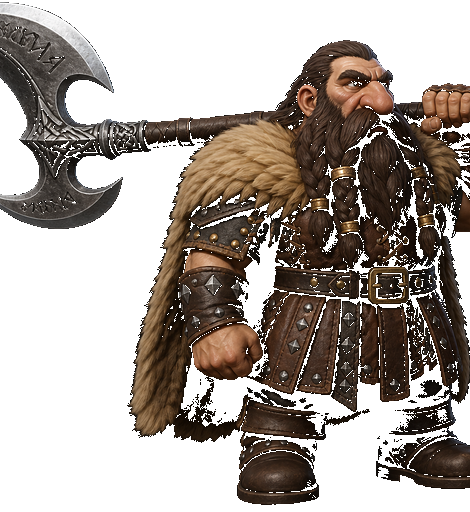
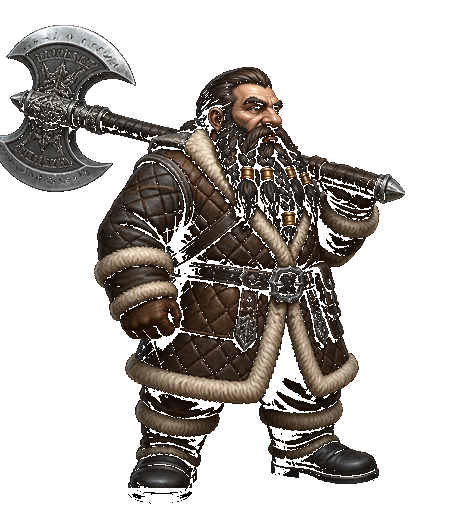
Bind Shadow Cleaver quilt34 pack + axe walk — ASSET_VER 95
Replace axe idle/atk; add axe_w1/w2 sheets and wire livingMacar walk
cycle for cleaver. WalkFacePair covers axe pair. Soft: buckle/atk crown.

diff --git a/index.html b/index.html
@@ -369,7 +369,7 @@ const FONT_QUOTE='"Cormorant Garamond",Palatino,Georgia,serif';
 
 /* ---------------------------- painted sprites (Baldur's Gate isometric) ---------------------------- */
 const SPR={};
-const ASSET_VER='94';
+const ASSET_VER='95';
 let SPLASH_STATE='loading';
 function assetUrl(src){
   const u=src+(src.indexOf('?')>=0?'&':'?')+'v='+ASSET_VER;
@@ -658,12 +658,14 @@ Object.keys(SPRITE_FILES).forEach(k=>{
    Drop compass / helmeted combat / sleep / title / w3 leftovers. Kin stay. */
 Object.keys(SPRITE_FILES).forEach(k=>{
   if(k==='macar' || k==='macar_w1' || k==='macar_w2' || k==='macar_atk'
-     || k==='macar_axe' || k==='macar_axe_atk') return;
+     || k==='macar_axe' || k==='macar_axe_w1' || k==='macar_axe_w2' || k==='macar_axe_atk') return;
   if(/^macar(_|$)/.test(k)) delete SPRITE_FILES[k];
 });
 /* Shadow Cleaver carry + atk — registered after the strip so they survive
-   and do not invent missing axe_w1/w2 fetches. */
+   axe_w1/w2 now ship with quilt34 cleaver pack. */
 SPRITE_FILES.macar_axe='assets/creatures/dwarf_macar_axe.png';
+SPRITE_FILES.macar_axe_w1='assets/creatures/dwarf_macar_axe_w1.png';
+SPRITE_FILES.macar_axe_w2='assets/creatures/dwarf_macar_axe_w2.png';
 SPRITE_FILES.macar_axe_atk='assets/creatures/dwarf_macar_axe_atk.png';
 const ICON_SPR={
   sword:'icon_sword', flask:'icon_flask', shield:'icon_shield', pack:'icon_pack',
@@ -695,7 +697,7 @@ function worldArtReady(n){
 function loadSprites(done){
   const first=['title_splash','chapters_plate','intro_ch1','intro_ch2','intro_ch3','intro_ch4','intro_ch5','intro_cavein',
     'floor_mine','wall_worked','wall_face','wall_face_shade','wall_cave','wall_cave_face','wall_cave_face_shade',
-    'macar','macar_w1','macar_w2','macar_atk','macar_axe','macar_axe_atk','pordoom_dead','fendur_dead','orbo_dead','talpor_dead',
+    'macar','macar_w1','macar_w2','macar_atk','macar_axe','macar_axe_w1','macar_axe_w2','macar_axe_atk','pordoom_dead','fendur_dead','orbo_dead','talpor_dead',
     'rubble','rubble2','boulder','boulder2','lantern',
     'icon_pack','icon_sword','icon_flask','icon_shield','icon_cross',
     'icon_plant','icon_shovel','icon_campfire','icon_bomb','icon_crossbow','icon_secret','icon_climb','icon_attack','icon_defend','icon_craft',
@@ -760,7 +762,7 @@ function loadSprites(done){
 }
 function ensureAttackFrames(){
   // Measure the hero's frames up front so the pixel read never lands mid-fight.
-  ['macar','macar_w1','macar_w2','macar_atk','macar_axe','macar_axe_atk',
+  ['macar','macar_w1','macar_w2','macar_atk','macar_axe','macar_axe_w1','macar_axe_w2','macar_axe_atk',
     'pordoom','pordoom_w1','pordoom_w2','pordoom_w3','pordoom_atk','pordoom_atk_recover','pordoom_ghost','pordoom_ghost_w3','pordoom_ghost_atk','pordoom_ghost_atk_recover',
     'fendur','fendur_w1','fendur_w2','fendur_w3','fendur_atk','fendur_atk_recover','fendur_ghost','fendur_ghost_w3','fendur_ghost_atk','fendur_ghost_atk_recover',
     'orbo','orbo_w1','orbo_w2','orbo_w3','orbo_atk','orbo_atk_recover','orbo_ghost','orbo_ghost_w3','orbo_ghost_atk','orbo_ghost_atk_recover',
@@ -1368,7 +1370,7 @@ const MACAR_PLAN={
 };
 /* Title-law Macar: maul idle + front w1/w2 + maul atk + Shadow Cleaver carry/atk. */
 const LIVING_MACAR_KEYS={
-  macar:1, macar_w1:1, macar_w2:1, macar_atk:1, macar_axe:1, macar_axe_atk:1
+  macar:1, macar_w1:1, macar_w2:1, macar_atk:1, macar_axe:1, macar_axe_w1:1, macar_axe_w2:1, macar_axe_atk:1
 };
 function isLivingMacarKey(k){ return !!(k && LIVING_MACAR_KEYS[k]); }
 function livingMacarIdleKey(){
@@ -1610,7 +1612,7 @@ function livingMacarAnimKey(e){
     const atk=(idle==='macar_axe')?'macar_axe_atk':'macar_atk';
     return pickReadyPartyKey(atk, idle) || idle;
   }
-  /* Axe has no w1/w2 — walkCycleKey plants axe idle (do not use maul walks). */
+  /* Cleaver walk uses axe_w1/w2 when ready; else plant axe idle (never maul walks). */
   const hit=(e.moving && !e.defending)?walkCycleKey(e, idle):null;
   return pickReadyPartyKey(isLivingMacarKey(hit)?hit:null, idle) || idle;
 }

diff --git a/src/combat/MacarDungeonBlit.test.js b/src/combat/MacarDungeonBlit.test.js
@@ -53,7 +53,7 @@ assert(!!keysDecl && /macar:1/.test(keysDecl[0]) && /macar_w1:1/.test(keysDecl[0
   'whitelist is maul set + Shadow Cleaver carry/atk');
 
 ['dwarf_macar.png','dwarf_macar_w1.png','dwarf_macar_w2.png','dwarf_macar_atk.png',
- 'dwarf_macar_axe.png','dwarf_macar_axe_atk.png'].forEach(f=>{
+ 'dwarf_macar_axe.png','dwarf_macar_axe_w1.png','dwarf_macar_axe_w2.png','dwarf_macar_axe_atk.png'].forEach(f=>{
   assert(fs.existsSync(path.join(root,'assets/creatures',f)), f+' live sheet remains');
 });
 ['dwarf_macar_atk_recover.png','dwarf_macar_e_atk.png',
@@ -67,10 +67,10 @@ const start=html.indexOf('const SPRITE_FILES={');
 const end=html.indexOf('const ICON_SPR={');
 const registry=new Function(html.slice(start, end)+'\nreturn SPRITE_FILES;')();
 assert(registry.macar && registry.macar_w1 && registry.macar_w2 && registry.macar_atk
-  && registry.macar_axe && registry.macar_axe_atk, 'live Macar + axe keys stay registered');
+  && registry.macar_axe && registry.macar_axe_w1 && registry.macar_axe_w2 && registry.macar_axe_atk, 'live Macar + axe keys stay registered');
 Object.keys(registry).forEach(k=>{
   if(k==='macar' || k==='macar_w1' || k==='macar_w2' || k==='macar_atk'
-     || k==='macar_axe' || k==='macar_axe_atk') return;
+     || k==='macar_axe' || k==='macar_axe_w1' || k==='macar_axe_w2' || k==='macar_axe_atk') return;
   assert(!/^macar(_|$)/.test(k), 'registry has no leftover Macar key '+k);
 });
 
@@ -130,7 +130,10 @@ SPR.macar_axe_atk={width:470, height:512};
 ctx._axe=true;
 assert(ctx.livingMacarIdleKey()==='macar_axe', 'cleaver idle is macar_axe');
 assert(ctx.livingMacarAnimKey(macar())==='macar_axe', 'cleaver idle blits macar_axe');
-assert(ctx.livingMacarAnimKey(macar({moving:1, gait:0.12}))==='macar_axe', 'cleaver walk plants axe idle');
+SPR.macar_axe_w1={width:470, height:512}; SPR.macar_axe_w2={width:470, height:512};
+assert(ctx.livingMacarAnimKey(macar({moving:1, gait:0.12}))==='macar_axe_w1', 'cleaver walk binds axe_w1');
+delete SPR.macar_axe_w1; delete SPR.macar_axe_w2;
+assert(ctx.livingMacarAnimKey(macar({moving:1, gait:0.12}))==='macar_axe', 'cleaver walk plants axe idle without walks');
 assert(ctx.livingMacarAnimKey(macar({atk:0.7, atkMax:1}))==='macar_axe_atk', 'cleaver melee uses axe atk');
 delete SPR.macar_axe; delete SPR.macar_axe_atk;
 ctx._axe=false;

diff --git a/src/combat/LivingMacarQA.test.js b/src/combat/LivingMacarQA.test.js
@@ -80,13 +80,15 @@ function pngAlphaHist(filePath){
   return {ok:true, w, h, mid, a0, a255, unique:midVals.size+(a0?1:0)+(a255?1:0)};
 }
 
-const BLIT_KEYS=['macar','macar_w1','macar_w2','macar_atk','macar_axe','macar_axe_atk'];
+const BLIT_KEYS=['macar','macar_w1','macar_w2','macar_atk','macar_axe','macar_axe_w1','macar_axe_w2','macar_axe_atk'];
 const KEY_FILE={
   macar:'dwarf_macar.png',
   macar_w1:'dwarf_macar_w1.png',
   macar_w2:'dwarf_macar_w2.png',
   macar_atk:'dwarf_macar_atk.png',
   macar_axe:'dwarf_macar_axe.png',
+  macar_axe_w1:'dwarf_macar_axe_w1.png',
+  macar_axe_w2:'dwarf_macar_axe_w2.png',
   macar_axe_atk:'dwarf_macar_axe_atk.png'
 };
 
@@ -198,7 +200,10 @@ SPR.macar_axe_atk={width:8};
 ctx._axe=true;
 assert(ctx.livingMacarIdleKey()==='macar_axe', 'cleaver swaps idle to macar_axe when sheet ready');
 assert(ctx.livingMacarAnimKey(macar())==='macar_axe', 'idle is macar_axe when the cleaver is on');
-assert(ctx.livingMacarAnimKey(macar({moving:1, gait:0.12}))==='macar_axe', 'cleaver walk plants axe idle (no axe_w1/w2)');
+SPR.macar_axe_w1={width:8}; SPR.macar_axe_w2={width:8};
+assert(ctx.livingMacarAnimKey(macar({moving:1, gait:0.12}))==='macar_axe_w1', 'cleaver walk binds axe_w1 when ready');
+delete SPR.macar_axe_w1; delete SPR.macar_axe_w2;
+assert(ctx.livingMacarAnimKey(macar({moving:1, gait:0.12}))==='macar_axe', 'cleaver walk plants axe idle without axe_w1/w2');
 assert(ctx.livingMacarAnimKey(macar({atk:0.7, atkMax:1}))==='macar_axe_atk', 'cleaver strike uses macar_axe_atk');
 assert(ctx.entAnimKey(macar())==='macar_axe', 'entAnimKey idle is macar_axe with the cleaver');
 assert(ctx.entAnimKey(macar({atk:0.7, atkMax:1}))==='macar_axe_atk', 'entAnimKey strike is macar_axe_atk');

diff --git a/src/systems/Interaction.test.js b/src/systems/Interaction.test.js
@@ -37,7 +37,7 @@ assert(SR.SHIPPED.indexOf('Interaction')>=0 && SR.SHIPPED.indexOf('Discovery')>=
 assert(/src="src\/systems\/Interaction\.js"/.test(html),
   'Interaction is a classic sync tag');
 assert(!/type\s*=\s*["']module["']/.test(html), 'index.html still has no type=module');
-assert(/ASSET_VER='94'/.test(html), 'ASSET_VER is unchanged');
+assert(/ASSET_VER='95'/.test(html), 'ASSET_VER is unchanged');
 assert(/function tryFindSecret\(p, mode\)\{/.test(html) &&
   /key==='search'/.test(html) && /key==='secret'/.test(html),
   'dual SEARCH (F herbs / T doors) is unchanged');
@@ -388,7 +388,7 @@ assert(/if\(typeof Interaction!=='undefined' && Interaction\.isProtectedCell/.te
 assert(/breakRock\(L,i,j\)/.test(html) && /function breakRock\(L,i,j\)\{/.test(html),
   'host breakRock remains the destruction path');
 assert(/function openSecret\(sec\)\{/.test(html), 'host openSecret remains the secret path');
-assert(!/ASSET_VER='95'/.test(html), 'ASSET_VER was not bumped');
+assert(!/ASSET_VER='96'/.test(html), 'ASSET_VER was not bumped');
 
 if(failed){ console.error('\n'+failed+' failed'); process.exit(1); }
 console.log('\ninteraction checks passed');

diff --git a/src/combat/WalkFacePair.test.js b/src/combat/WalkFacePair.test.js
@@ -38,7 +38,7 @@ assert(!/macar_e_w1/.test(html.match(/const MACAR_PLAN=\{[\s\S]*?\};/)[0])
   'engine does not bind deleted compass / e_w1 Macar art');
 
 ['dwarf_macar.png','dwarf_macar_w1.png','dwarf_macar_w2.png','dwarf_macar_atk.png',
- 'dwarf_macar_axe.png','dwarf_macar_axe_atk.png'].forEach(f=>{
+ 'dwarf_macar_axe.png','dwarf_macar_axe_w1.png','dwarf_macar_axe_w2.png','dwarf_macar_axe_atk.png'].forEach(f=>{
   assert(fs.existsSync(path.join(creatures,f)), f+' on disk');
 });
 ['dwarf_macar_e_w1.png','dwarf_macar_e_w2.png','dwarf_macar_e_atk.png'].forEach(f=>{
@@ -66,6 +66,7 @@ function checkPair(aName, bName, label){
 }
 
 checkPair('dwarf_macar_w1.png','dwarf_macar_w2.png','title-law front plant');
+checkPair('dwarf_macar_axe_w1.png','dwarf_macar_axe_w2.png','shadow-cleaver front plant');
 
 if(failed){ console.error('\n'+failed+' failed'); process.exit(1); }
 console.log('\nwalk face-pair checks passed');

diff --git a/src/saves/GameSave.test.js b/src/saves/GameSave.test.js
@@ -69,7 +69,7 @@ assert(/Save game/.test(html) && /function writeGameSave\(/.test(html), 'pause c
 }
 assert(/GameSave\.captureWorld/.test(html) && /GameSave\.applyWorld/.test(html), 'play save uses the versioned world schema');
 assert(/remakeSavedEnt/.test(html) && /restoreSavedEid/.test(html), 'load remakes ents and restores numeric EIDs');
-assert(!/ASSET_VER='95'/.test(html) && /ASSET_VER='94'/.test(html), 'ASSET_VER is unchanged');
+assert(!/ASSET_VER='96'/.test(html) && /ASSET_VER='95'/.test(html), 'ASSET_VER is unchanged');
 assert(/G\.scene==='camp'/.test(html) && /drawHint\(g,UIS\)/.test(html), 'camp draws the Saved toast');
 assert(/Continue/.test(html) && /function loadSavedGame\(/.test(html), 'title can continue a save');
 assert(/G\._keepProgress/.test(html) && /G\._forceSeeds/.test(html), 'load keeps campaign and dungeon seeds');

diff --git a/src/ui/EquipCompare.test.js b/src/ui/EquipCompare.test.js
@@ -70,8 +70,8 @@ assert(SR.has('EquipCompare') && SR.get('EquipCompare')===EC,
 assert(SR.SHIPPED.indexOf('EquipCompare')>=0, 'EquipCompare is a shipped optional module');
 assert(SR.SHIPPED.indexOf('DerivedStats')>=0, 'DerivedStats is a shipped optional module');
 assert(!/type\s*=\s*["']module["']/.test(html), 'index.html still has no type=module');
-assert(/ASSET_VER='94'/.test(html), 'ASSET_VER is unchanged');
-assert(!/ASSET_VER='95'/.test(html), 'ASSET_VER was not bumped');
+assert(/ASSET_VER='95'/.test(html), 'ASSET_VER is unchanged');
+assert(!/ASSET_VER='96'/.test(html), 'ASSET_VER was not bumped');
 assert(/src="src\/combat\/DerivedStats\.js"/.test(html),
   'DerivedStats is a classic sync tag');
 assert(/src="src\/ui\/EquipCompare\.js"/.test(html),

diff --git a/src/ui/Ch1StartLoadout.test.js b/src/ui/Ch1StartLoadout.test.js
@@ -43,8 +43,8 @@ assert(/if\(r\.key==='macar'\) ensureMacarStartingGear\(pk\)/.test(html),
   'ensurePacks wears the starting kit on Macar');
 assert(/livingMacarIdleKey/.test(html) && /wieldsShadowCleaver/.test(html),
   'maul idle is the default; Cleaver is an equip swap');
-assert(/ASSET_VER='94'/.test(html),
-  'ASSET_VER stays 94 — this restore wires existing sheets, no new PNG');
+assert(/ASSET_VER='95'/.test(html),
+  'ASSET_VER stays 95 — this restore wires existing sheets, no new PNG');
 assert(/Interaction\.installChapterI/.test(html)
   && /if \(L\.n === 1 && i < 14\) return true/.test(fs.readFileSync(path.join(root,'src/systems/Interaction.js'),'utf8')),
   'later room interactions protect the west cave-in lip');

diff --git a/src/ui/Ch1RubbleLoad.test.js b/src/ui/Ch1RubbleLoad.test.js
@@ -45,7 +45,7 @@ assert(!/else if\(okTex\)\{/.test(html),
   'generated TEX diamonds are not a first-frame floor/wall fallback');
 assert(/tile_floor_mine\.png\?v=60/.test(html) && /tile_wall_worked\.png\?v=60/.test(html),
   'mine floor and worked wall are preloaded before first present');
-assert(/ASSET_VER='94'/.test(html), 'asset cache-bust matches maul length-lock bind');
+assert(/ASSET_VER='95'/.test(html), 'asset cache-bust matches Shadow Cleaver bind');
 assert(/function scatterBurialRubble\(/.test(html) && /fallen:1/.test(html) && /k:'dust'/.test(html),
   'cave-in entry scatters extra timber, stone, and dust around the burial');
 assert(/function drawFallenBeam\(/.test(html) && /function drawFloorDust\(/.test(html),

diff --git a/src/combat/MacarSolid.test.js b/src/combat/MacarSolid.test.js
@@ -148,7 +148,7 @@ assert(ctx.heroFigureFit(ghost,recover)===1, 'ghost kin are not hero-fitted');
 assert(ctx.heroFigureFit({hero:1,dead:0,ghost:1},atk)===1, 'a ghost Macar is not flattened-fit');
 
 ['dwarf_macar.png','dwarf_macar_w1.png','dwarf_macar_w2.png','dwarf_macar_atk.png',
- 'dwarf_macar_axe.png','dwarf_macar_axe_atk.png'].forEach(f=>{
+ 'dwarf_macar_axe.png','dwarf_macar_axe_w1.png','dwarf_macar_axe_w2.png','dwarf_macar_axe_atk.png'].forEach(f=>{
   assert(fs.existsSync(path.join(__dirname,'../../assets/creatures/'+f)), f+' on disk');
 });
 ['dwarf_macar_title.png','dwarf_macar_back.png',

diff --git a/src/systems/EnemyIntent.test.js b/src/systems/EnemyIntent.test.js
@@ -62,7 +62,7 @@ assert(/function applyEnemyIntent\(/.test(html) && /function intentHost\(/.test(
   'host applies intent through existing steerWalk / atk machinery');
 assert(/EnemyIntent\.decide\(e, dt, intentHost\(\)\)/.test(html),
   'only the foe decision branch consults EnemyIntent');
-assert(/ASSET_VER='94'/.test(html), 'ASSET_VER is unchanged');
+assert(/ASSET_VER='95'/.test(html), 'ASSET_VER is unchanged');
 
 const head=html.slice(0, html.indexOf('<script>\n"use strict";'));
 const navI=head.indexOf('src="src/systems/Navigation.js"');

diff --git a/src/systems/Navigation.test.js b/src/systems/Navigation.test.js
@@ -92,7 +92,7 @@ assert(/bumpTopology\('openSecret/.test(html) && /bumpTopology\('breakRock'\)/.t
   'openSecret and breakRock invalidate nav topology');
 assert(/G\.topologyRev=0/.test(html) && /G\.seenRev=\(G\.seenRev\|\|0\)\+1/.test(html),
   'chapter reset clears topologyRev; breakRock still bumps seenRev separately');
-assert(/ASSET_VER='94'/.test(html), 'ASSET_VER is unchanged');
+assert(/ASSET_VER='95'/.test(html), 'ASSET_VER is unchanged');
 
 /* ---- real Macar canBe / walk / wallFaceClear ---- */
 function makeGrid(w, h, fill){
